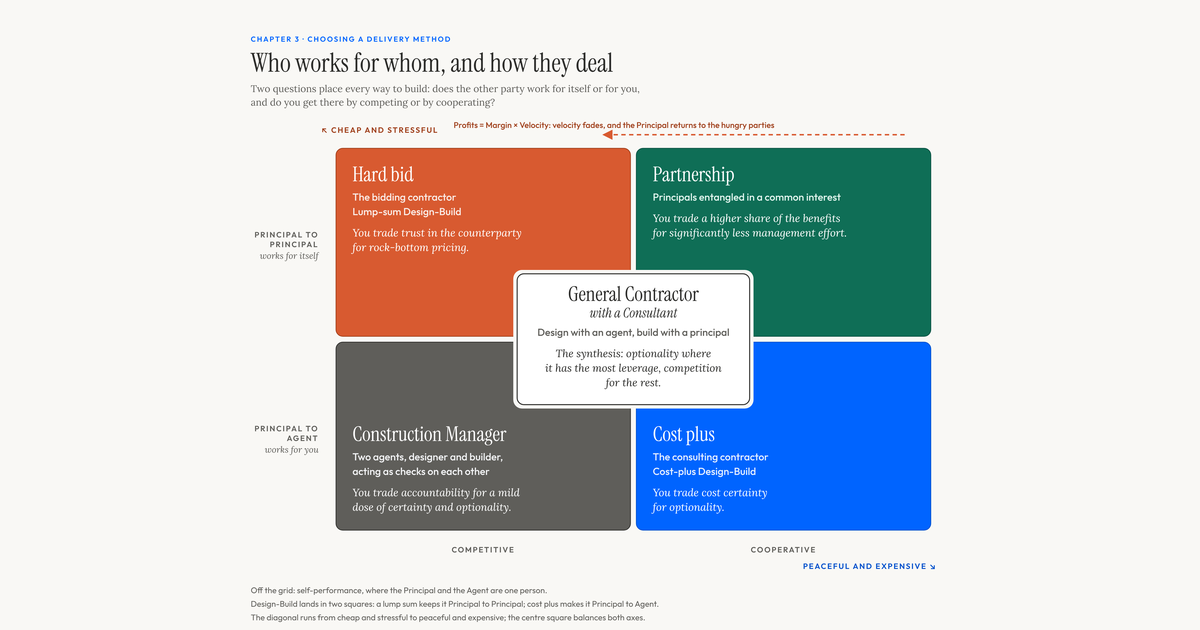
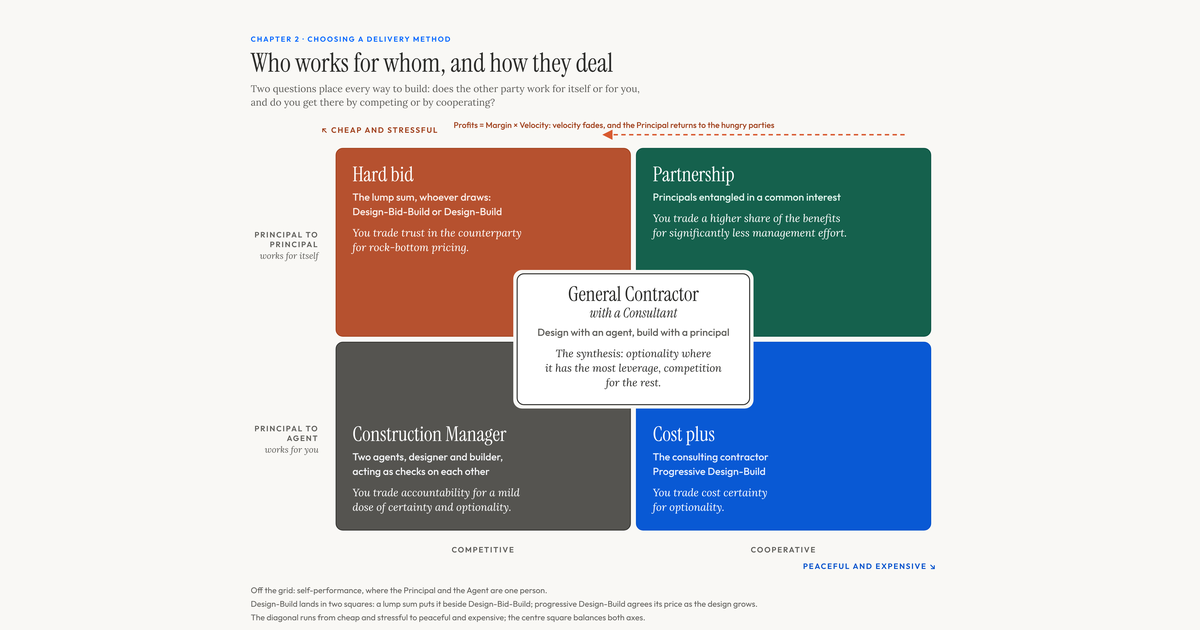
Chapter 2: put lump-sum Design-Build beside Design-Bid-Build and add progressive Design-Build
The delivery-method figure's hard-bid corner now shows the lump sum whoever
draws (Design-Bid-Build or Design-Build), and the cost-plus corner shows
progressive Design-Build. Two paragraphs in the chapter explain both, with
sources in the hidden note and Appendix D.

Claude-Session: https://claude.ai/code/session_01JEzVpfFSJUGyTwitQwCMKP

Changed region(s): [[0.5242, 0.5429, 0.8017, 0.8444], [0.2775, 0.2111, 0.5242, 0.5429], [0.3392, 0.9349, 0.6167, 0.9651]]

diff --git a/images/delivery_methods_2x2.py b/images/delivery_methods_2x2.py
@@ -1,4 +1,4 @@
-"""Draw the delivery-method 2x2 for chapter 3 (PI brand kit colours, no PI marks).
+"""Draw the delivery-method 2x2 for chapter 2 (PI brand kit colours, no PI marks).
 
 Usage: python images/delivery_methods_2x2.py images/delivery-methods-2x2
 Writes the .svg and an .html; render the PNG with
@@ -27,7 +27,7 @@ D = {k: _mix(C[k], C["ink"], DARK) for k in ("acc", "sec", "ink2", "action")}
 # (col, row, fill, stroke, label colour, name, examples, trade lines, text top offset)
 QUADS = [
     (0, 0, D["acc"], C["acc_d"], C["acc_t"], "Hard bid",
-     ["The bidding contractor", "Lump-sum Design-Build"],
+     ["The lump sum, whoever draws:", "Design-Bid-Build or Design-Build"],
      ["You trade trust in the counterparty", "for rock-bottom pricing."], 44),
     (1, 0, D["sec"], C["sec_d"], C["sec_t"], "Partnership",
      ["Principals entangled in a common interest"],
@@ -36,7 +36,7 @@ QUADS = [
      ["Two agents, designer and builder,", "acting as checks on each other"],
      ["You trade accountability for a mild", "dose of certainty and optionality."], 180),
     (1, 1, D["action"], C["action_p"], C["action_t"], "Cost plus",
-     ["The consulting contractor", "Cost-plus Design-Build"],
+     ["The consulting contractor", "Progressive Design-Build"],
      ["You trade cost certainty", "for optionality."], 180),
 ]
 
@@ -50,7 +50,7 @@ o.append('<defs>'
          f'<marker id="ah-a" viewBox="0 0 10 10" refX="8" refY="5" markerWidth="7" markerHeight="7" orient="auto-start-reverse"><path d="M0,0 L10,5 L0,10 z" fill="{C["acc"]}"/></marker>'
          f'<marker id="ah-i" viewBox="0 0 10 10" refX="8" refY="5" markerWidth="7" markerHeight="7" orient="auto-start-reverse"><path d="M0,0 L10,5 L0,10 z" fill="{C["ink"]}"/></marker>'
          '</defs>')
-o.append(t(80, 86, "CHAPTER 3 · CHOOSING A DELIVERY METHOD", "eyebrow"))
+o.append(t(80, 86, "CHAPTER 2 · CHOOSING A DELIVERY METHOD", "eyebrow"))
 o.append(t(80, 148, "Who works for whom, and how they deal", "title"))
 o.append(t(80, 190, "Two questions place every way to build: does the other party work for itself or for you,", "dek"))
 o.append(t(80, 218, "and do you get there by competing or by cooperating?", "dek"))
@@ -101,7 +101,7 @@ o.append(t(XM - 40, ay - 14, "Profits = Margin × Velocity: velocity fades, and 
 # self-performance sits outside the grid
 o.append(t(80, H - 76, "Off the grid: self-performance, where the Principal and the Agent are one person.", "foot"))
 o.append(t(80, H - 20, "The diagonal runs from cheap and stressful to peaceful and expensive; the centre square balances both axes.", "foot"))
-o.append(t(80, H - 48, "Design-Build lands in two squares: a lump sum keeps it Principal to Principal; cost plus makes it Principal to Agent.", "foot"))
+o.append(t(80, H - 48, "Design-Build lands in two squares: a lump sum puts it beside Design-Bid-Build; progressive Design-Build agrees its price as the design grows.", "foot"))
 
 svg = f'''<svg xmlns="http://www.w3.org/2000/svg" width="{W}" height="{H}" viewBox="0 0 {W} {H}">
 <style>

diff --git a/manuscript/03-how-a-price-is-judged-today.md b/manuscript/03-how-a-price-is-judged-today.md
@@ -4,7 +4,7 @@ Before a bot can judge a price, someone has to decide who works for whom. Econom
 
 So, you want to build a house. It is about the largest thing one person could hope to build alone, which makes it a good baseline: anything bigger, from a school to a bridge, takes other people, and other people raise the question the rest of this chapter answers. Why not just get along? Let's look at your options.
 
-![Delivery methods on two axes, Principal to Principal against Principal to Agent and competitive against cooperative: hard bid, partnership, Construction Manager and cost plus in the corners, the General Contractor with a Consultant in the centre](../images/delivery-methods-2x2.png)
+![Delivery methods on two axes, Principal to Principal against Principal to Agent and competitive against cooperative: hard bid (lump-sum Design-Bid-Build or Design-Build), partnership, Construction Manager and cost plus (including progressive Design-Build) in the corners, the General Contractor with a Consultant in the centre](../images/delivery-methods-2x2.png)
 
 *Who works for whom, and how they deal. Cheap and stressful in one corner, peaceful and expensive in the other; the General Contractor with a Consultant balances both axes.*
 
@@ -32,6 +32,8 @@ How much of a dose depends on two questions. Does the other party work for itsel
 
 Hand the whole job to one builder, design included, and you have Design-Build: the Babylonian problem. The builder has all the control. A lump sum controls the price, but requires some degree of adversarial relationship. Society can help set a floor against the worst-case scenarios, but friction is to be expected.
 
+A lump sum works the same way whoever draws the design. Once the drawings are done, the General Contractor in the centre of the map bids for the build exactly like this, so lump-sum Design-Build and Design-Bid-Build share the corner. In both, you fix the price before the work is fully known and the builder carries the risk of getting it wrong. Only the person holding the pencil changes.
+
 This works great when you know what you want, know how to ask for it, and know what it should cost.
 
 You trade trust in the counterparty for rock-bottom pricing.
@@ -43,6 +45,8 @@ We don't all have the Type A energy to always inhabit that world, so we mortals 
 Maybe you want something more. You want to change your mind. You want to explore possibilities. You are willing to risk some capital, but don't want it all to go to the counterparty's margin.
 
 A cost-plus contract moves you to the opposite corner of the map. The builder becomes a consulting contractor: it works for you, and you cooperate instead of competing. The scope and the price float. What keeps the contractor on your side is partly law and custom, but mostly the money: paid its costs plus a fee, it has little to gain by working against you. The catch: you pay every cost, whatever it turns out to be, and the contractor has no reason to spend less. When the fee is a percentage, every extra dollar you spend earns it a little more. Useful when you need room to move, but the peaceful corner is also the expensive one.
+
+Design-Build has a version for this corner too. In progressive Design-Build, you choose the team for its qualifications instead of its price. It designs alongside you, and the price is agreed with open books, one package at a time, as the design firms up. Public road agencies are only starting to use it, and as of 2024 only sixteen US jurisdictions had a law that allowed it. Open books only help if someone on your side can read them.
 
 You trade cost certainty for optionality.
 

diff --git a/manuscript/app-d-bibliography.md b/manuscript/app-d-bibliography.md
@@ -14,6 +14,8 @@ Deutsches Institut für Normung. DIN 476, *Papierformate* (paper formats). Berli
 
 Eghbal, Nadia. *Working in Public: The Making and Maintenance of Open Source Software.* San Francisco: Stripe Press, 2020.
 
+Federal Highway Administration. *Comparing the Performance of Project Delivery Methods.* TechBrief FHWA-HRT-17-100. McLean, VA: FHWA, 2018.
+
 Galbraith, J. R. *Achieving Integration through Information Systems.* Working paper 364-68. Cambridge, MA: MIT Sloan School of Management, December 1968.
 
 Hammurabi. *The Code of Hammurabi*, c. 1750 BC. Translated by L. W. King, 1910.
@@ -37,6 +39,8 @@ Lamport, Leslie. "Proving the Correctness of Multiprocess Programs." *IEEE Trans
 Lang, David. "Standards Make the World." Summer of Protocols, Ethereum Foundation, December 2023. https://summerofprotocols.com/standards-make-the-world-web. Also in *The Protocol Reader* (edition to check).
 
 Lang, David. Opening talk and roundtable on field building, with Timber Stinson-Schroff and Venkatesh Rao. Protocol Symposium 2026, 23 September 2026. https://www.youtube.com/watch?v=nx-3L5Apbgw.
+
+National Academies of Sciences, Engineering, and Medicine. *Guide to Open-Book Pricing for Alternative Contracting Methods.* Washington, DC: The National Academies Press, 2025. https://doi.org/10.17226/29084.
 
 Open Contracting Partnership. *Open Contracting Data Standard*, version 1.0, 2015; and, with CoST – the Infrastructure Transparency Initiative, *Open Contracting for Infrastructure Data Standard* (OC4IDS), 2019. https://standard.open-contracting.org/.
 
